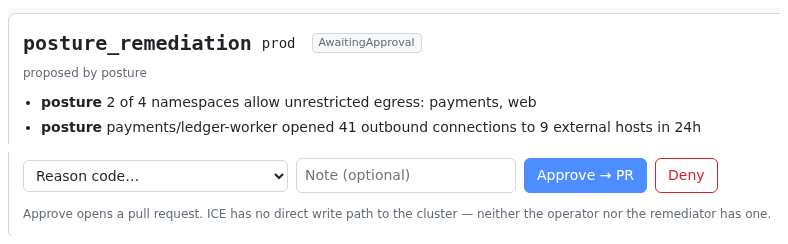
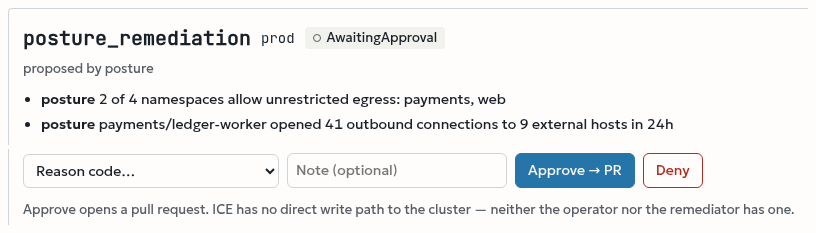
feat(site): the ICE console in the site's theme — dark screenshots for the dark theme
The console has had a dark theme all along (light-dark() in ui/src/styles.css); the site
showed the light one in both themes. Screenshots re-shot from the current console
(origin/main, with the new ICE mark) against the same synthetic acme-corp mock: actions,
cases and posture in light and dark, plus the phone crop of the approval card in both.

- Hero and the ICE page gallery show the pair matching the site's theme
  (.dt-light-only / .dt-dark-only).
- The hero card no longer forces a white backing behind the screenshot.

diff --git a/docs/.vitepress/theme/components/HubHome.vue b/docs/.vitepress/theme/components/HubHome.vue
@@ -28,12 +28,21 @@ const latest = posts.slice(0, 4);
 
       <figure class="intro-shot">
         <a href="/ice/#what-it-looks-like">
-          <picture>
-            <!-- on a phone the whole console is a blur: show the one card that matters -->
-            <source media="(max-width: 640px)" srcset="/screenshots/ice/action-approval-card.png" width="788" height="244" />
+          <!-- the console in the site's theme; on a phone, the one card that matters instead of a blur -->
+          <picture class="dt-light-only">
+            <source media="(max-width: 640px)" srcset="/screenshots/ice/action-approval-card.png" width="816" height="233" />
             <img
               src="/screenshots/ice/action-approval.png"
               alt="ICE console: a proposed remediation waiting for approval, with Approve and Deny"
+              width="1440"
+              height="900"
+            />
+          </picture>
+          <picture class="dt-dark-only">
+            <source media="(max-width: 640px)" srcset="/screenshots/ice/action-approval-card-dark.png" width="816" height="233" />
+            <img
+              src="/screenshots/ice/action-approval-dark.png"
+              alt="ICE console in its dark theme: a proposed remediation waiting for approval, with Approve and Deny"
               width="1440"
               height="900"
             />
@@ -201,7 +210,6 @@ a:hover { text-decoration-thickness: 2px; }
   display: block;
   width: 100%;
   height: auto;
-  background: #fff;
   border: 1px solid var(--vp-c-divider);
   border-radius: var(--dt-radius-card);
   box-shadow: 0 8px 24px rgb(0 0 0 / 0.08);

diff --git a/docs/.vitepress/theme/custom.css b/docs/.vitepress/theme/custom.css
@@ -509,3 +509,8 @@
 .vp-doc div[class*='language-'] {
   border-radius: var(--dt-radius-card) !important;
 }
+
+/* product screenshots come in light/dark pairs: show the one matching the site's theme */
+.dt-dark-only { display: none !important; }
+.dark .dt-light-only { display: none !important; }
+.dark .dt-dark-only { display: block !important; }

diff --git a/docs/ice/index.md b/docs/ice/index.md
@@ -64,17 +64,17 @@ person approved, the action fails instead of shipping something nobody reviewed.
 company, acme-corp — not a production estate.</p>
 
 <figure class="dt-shot">
-  <a href="/screenshots/ice/action-approval.png"><img src="/screenshots/ice/action-approval.png" width="1440" height="900" loading="lazy" alt="ICE console, Actions: a posture remediation awaiting approval, with the evidence, the rendered NetworkPolicy and what merging it does; Approve opens a pull request."></a>
+  <a class="dt-light-only" href="/screenshots/ice/action-approval.png"><img src="/screenshots/ice/action-approval.png" width="1440" height="900" loading="lazy" alt="ICE console, Actions: a posture remediation awaiting approval, with the evidence, the rendered NetworkPolicy and what merging it does; Approve opens a pull request."></a><a class="dt-dark-only" href="/screenshots/ice/action-approval-dark.png"><img src="/screenshots/ice/action-approval-dark.png" width="1440" height="900" loading="lazy" alt="ICE console, Actions: a posture remediation awaiting approval, with the evidence, the rendered NetworkPolicy and what merging it does; Approve opens a pull request. Dark theme."></a>
   <figcaption><strong>Approve a change, not a description.</strong> The rendered manifest and what merging it does; approving opens a pull request — ICE has no direct write path to the cluster.</figcaption>
 </figure>
 
 <figure class="dt-shot">
-  <a href="/screenshots/ice/cases.png"><img src="/screenshots/ice/cases.png" width="1440" height="900" loading="lazy" alt="ICE console, Cases: one case verified after a re-check, one merged and deployed but not verified because the requirement has not been measured since the merge."></a>
+  <a class="dt-light-only" href="/screenshots/ice/cases.png"><img src="/screenshots/ice/cases.png" width="1440" height="900" loading="lazy" alt="ICE console, Cases: one case verified after a re-check, one merged and deployed but not verified because the requirement has not been measured since the merge."></a><a class="dt-dark-only" href="/screenshots/ice/cases-dark.png"><img src="/screenshots/ice/cases-dark.png" width="1440" height="900" loading="lazy" alt="ICE console, Cases: one case verified after a re-check, one merged and deployed but not verified because the requirement has not been measured since the merge. Dark theme."></a>
   <figcaption><strong>Merged is not fixed.</strong> A case reaches <em>verified</em> only after a re-check; the second one stays <em>deployed, not verified</em> until the requirement is measured again.</figcaption>
 </figure>
 
 <figure class="dt-shot">
-  <a href="/screenshots/ice/posture.png"><img src="/screenshots/ice/posture.png" width="1440" height="900" loading="lazy" alt="ICE console, Posture: compliance score with met, unmet, not checked and not applicable requirements per environment."></a>
+  <a class="dt-light-only" href="/screenshots/ice/posture.png"><img src="/screenshots/ice/posture.png" width="1440" height="900" loading="lazy" alt="ICE console, Posture: compliance score with met, unmet, not checked and not applicable requirements per environment."></a><a class="dt-dark-only" href="/screenshots/ice/posture-dark.png"><img src="/screenshots/ice/posture-dark.png" width="1440" height="900" loading="lazy" alt="ICE console, Posture: compliance score with met, unmet, not checked and not applicable requirements per environment. Dark theme."></a>
   <figcaption><strong>Posture as requirements.</strong> Not checked counts against the score; not applicable is left out of it.</figcaption>
 </figure>
 
